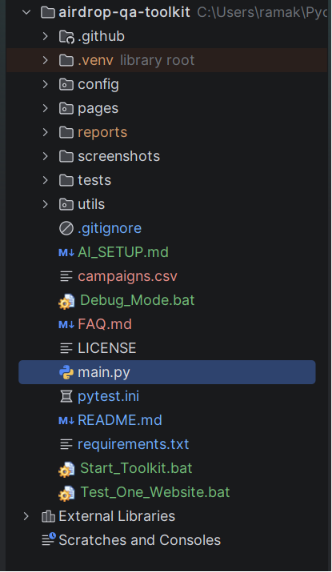
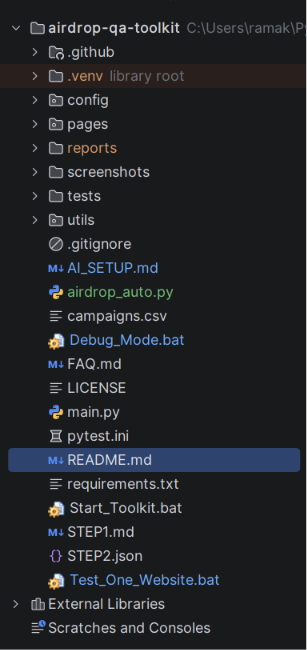
Improve setup guide and debug mode for beginners

diff --git a/airdrop_auto.py b/airdrop_auto.py
@@ -1,0 +1,21 @@
+"""
+Airdrop QA Toolkit
+Entry point for running the toolkit.
+"""
+
+print("Debug Mode (Optional)\n")
+
+print("If you're testing wallet interactions:")
+print("- Close all Google Chrome windows.")
+print("- Start Chrome in Debug Mode.")
+print("- Open Command Prompt and run:\n")
+print("Copy and paste this command:\n")
+print('"C:\\Program Files\\Google\\Chrome\\Application\\chrome.exe" --remote-debugging-port=9222 --no-first-run --user-data-dir="%LOCALAPPDATA%\\Google\\Chrome-Debug"\n')
+
+print("- Then run Debug_Mode.bat.\n")
+
+print("Otherwise, simply press Enter to continue.\n")
+
+input("Press Enter to continue...")
+
+import main

diff --git a/AI_SETUP.md b/AI_SETUP.md
@@ -1,70 +1,166 @@
 # AI Setup Guide — Airdrop QA Toolkit
 
-This file is designed to be copied and pasted into ChatGPT (or any AI assistant).
+This guide is for beginners.
 
-It gives the AI everything it needs to walk you through setup, even if you have never used Python before.
-
----
-
-## How to use this file
-
-1. Open [ChatGPT](https://chatgpt.com/) in your browser
-2. Copy **everything below the line** and paste it into the chat
-3. Press Enter and follow the AI's instructions one step at a time
+If you get stuck while setting up the toolkit, copy everything below into ChatGPT and let it guide you step by step.
 
 ---
+
+## How to use
+
+1. Open https://chatgpt.com/ or any ai.
+2. Copy everything below this line.
+3. Paste it into ChatGPT.
+4. Follow the instructions one step at a time.
 
 ---
 
 Hi ChatGPT,
 
-I downloaded a free toolkit called **Airdrop QA Toolkit** from GitHub.
+I downloaded **Airdrop QA Toolkit** from GitHub.
 
-I want to run it on my Windows computer, but I am not a developer and I have never used Python or Command Prompt before.
+I have never used Python or Command Prompt before.
 
-Please be my personal setup assistant and help me get it running.
+Please help me set up and run this toolkit on my Windows computer.
 
-**Important rules for you:**
+### Important
 
-- Assume I know absolutely nothing about programming
-- Explain every single step in plain, simple English
-- Do not use technical words without explaining them first
-- Guide me one step at a time — wait for me to confirm before moving on
-- If I get an error message, stop and help me fix it before we continue
-- Do not assume any software is already installed
+* Explain everything in simple English.
+* Guide me one step at a time.
+* Wait for me to confirm each step before continuing.
+* If I get an error, help me fix it before moving on.
+* Assume nothing is already installed.
 
-**Here is what I need your help with:**
+### Help me with:
 
-1. Check if Python is installed on my computer, and help me install it if it is not
-2. Make sure I ticked "Add Python to PATH" during installation (this is very important)
-3. Help me open the project folder I downloaded
-4. Help me double-click `run.bat` to start the toolkit
-5. If `run.bat` fails or an error appears, explain what the error means in plain English and help me fix it
-6. Once the toolkit is running, show me how to add my own Web3 campaign URLs to the `my_campaigns.csv` file
-7. Explain what the results mean once the checks are done
+1. Check if Python is installed.
+2. Help me install Python if needed.
+3. Make sure **"Add Python to PATH"** is enabled.
+4. Help me open the project folder.
+5. Help me run **Start_Toolkit.bat**.
+6. If I get an error, explain it in simple English and help me fix it.
+7. Help me edit **campaigns.csv** to add my own websites.
+8. Explain the HTML report after the scan finishes.
 
-**Common errors you might need to help with:**
+### Common Errors
 
-- `python is not recognized` → Python is not installed or PATH was not set
-- `pip is not recognized` → Same as above — PATH issue
-- `No module named ...` → A required package is missing, install it with pip
-- `FileNotFoundError` → The file path is wrong or the file does not exist
-- `ChromeDriver` errors → Help me install or update Chrome and ChromeDriver
+**python is not recognized**
 
-For every error: first explain what went wrong in one simple sentence, then give me the exact fix.
+Python is not installed or PATH is not configured correctly.
 
-My goal is simply to run the toolkit successfully so I can check my Web3 campaign URLs.
+**pip is not recognized**
+
+Python was installed but PATH was not configured correctly.
+
+**No module named ...**
+
+Install the missing package.
+
+**FileNotFoundError**
+
+The file or folder cannot be found.
+
+**ChromeDriver errors**
+
+Help me update Google Chrome and ChromeDriver.
+
+For every error:
+
+* Explain what happened in one simple sentence.
+* Give me the exact steps to fix it.
+
+My goal is to successfully run the toolkit and test my Web3 campaign websites.
 
 Thank you!
 
 ---
 
-## Still stuck?
+# Manual Setup (Optional)
 
-If the AI cannot solve your issue, open a GitHub Issue and include:
+## 1. Install Python
 
-- Your Windows version (e.g. Windows 10 or Windows 11)
-- What happened when you double-clicked `run.bat`
-- A screenshot of any error message
+Download Python:
+
+https://www.python.org/downloads/
+
+During installation, enable:
+
+✔ Add Python to PATH
+
+---
+
+## 2. Install Required Packages
+
+Open **Command Prompt** inside the project folder and run:
+
+```
+pip install -r requirements.txt
+```
+
+---
+
+## 3. Start the Toolkit
+
+For most users:
+
+* Double-click **Start_Toolkit.bat**
+
+Advanced users can also run:
+
+```
+python airdrop_auto.py
+```
+
+---
+
+## 4. Chrome Debug Mode (Optional)
+
+Use this mode only if you want to test wallet interactions.
+
+### Step 1
+
+Close **all Google Chrome windows**.
+
+This is important before starting Chrome in Debug Mode.
+
+### Step 2
+
+Open **Command Prompt**.
+
+### Step 3
+
+Copy and paste the command below, then press **Enter**.
+
+```
+"C:\Program Files\Google\Chrome\Application\chrome.exe" --remote-debugging-port=9222 --no-first-run --user-data-dir="%LOCALAPPDATA%\Google\Chrome-Debug"
+```
+
+A new Chrome window will open in Debug Mode.
+
+### Step 4
+
+Double-click:
+
+```
+Debug_Mode.bat
+```
+
+The toolkit will connect to the Debug Chrome window.
+
+Note:
+
+Only use Debug Mode for testing.
+Do not use it for personal browsing or logging into sensitive accounts.
+
+---
+
+## Still Need Help?
+
+If the toolkit still doesn't work, create a GitHub Issue and include:
+
+* Windows version
+* Python version
+* What happened
+* A screenshot of the error
 
 This helps improve the toolkit for everyone.

diff --git a/README.md b/README.md
@@ -9,7 +9,7 @@ No coding required. Install Python once, then run the toolkit.
 ## Features
 
 * Check website availability
-* Verify HTTPS/SSL certificate
+* Verify HTTPS / SSL certificate
 * Check HTTP status code
 * Detect redirects
 * Measure page load speed
@@ -22,7 +22,7 @@ No coding required. Install Python once, then run the toolkit.
 
 ## Requirements
 
-* Windows 10/11
+* Windows 10 or Windows 11
 * Python 3.10 or later
 * Google Chrome
 * Internet connection
@@ -31,18 +31,29 @@ No coding required. Install Python once, then run the toolkit.
 
 ## Setup
 
-1. Download or clone this project.
-2. Install Python from:
-   https://www.python.org/downloads/
-3. During installation, enable **"Add Python to PATH"**.
+### 1. Download the project
+
+Download or clone this repository.
+
+### 2. Install Python
+
+Download Python:
+
+https://www.python.org/downloads/
+
+During installation, make sure you enable:
+
+**✔ Add Python to PATH**
 
 ---
 
 ## Run
 
-### Test one website
+### Test One Website
 
-Double-click **run_single_site.bat**
+Double-click:
+
+**Test_One_Website.bat**
 
 Enter a website URL when prompted.
 
@@ -54,9 +65,9 @@ https://base.org
 
 ---
 
-### Test multiple websites
+### Test Multiple Websites
 
-Edit **campaigns.csv** with your websites.
+Open **campaigns.csv** and add your websites.
 
 Example:
 
@@ -66,7 +77,55 @@ Base,https://base.org
 Bitget,https://web3.bitget.com
 ```
 
-Then double-click **run.bat**.
+Save the file.
+
+Then double-click:
+
+**Start_Toolkit.bat**
+
+---
+
+## Run from Command Prompt (Optional)
+
+For advanced users:
+
+1. Open Command Prompt.
+2. Open the project folder.
+3. Run:
+
+```
+python airdrop_auto.py
+```
+
+---
+
+## Manual Installation (Optional)
+
+If the required packages are not installed, open Command Prompt in the project folder and run:
+
+```
+pip install -r requirements.txt
+```
+
+---
+
+## Debug Mode (Optional)
+
+Debug Mode is only required for wallet interaction testing.
+
+1. Close all Google Chrome windows.
+2. Open Command Prompt.
+3. Copy and paste this command:
+
+```
+"C:\Program Files\Google\Chrome\Application\chrome.exe" --remote-debugging-port=9222 --no-first-run --user-data-dir="%LOCALAPPDATA%\Google\Chrome-Debug"
+```
+
+4. Then run:
+
+**Debug_Mode.bat**
+
+**Note:** Keep the Debug Chrome window open until testing finishes.
 
 ---
 
@@ -78,13 +137,16 @@ After the scan finishes, open:
 reports/report.html
 ```
 
-If a test fails, screenshots are saved in the **screenshots** folder.
+If a test fails, screenshots are saved inside the **screenshots** folder.
 
 ---
 
 ## Need Help?
 
-See **FAQ.md** or **AI_SETUP.md**.
+See:
+
+* **FAQ.md**
+* **AI_SETUP.md**
 
 ---
 
@@ -104,13 +166,16 @@ See **FAQ.md** or **AI_SETUP.md**.
 
 ### Project Structure
 
-![Project Structure](screenshots/project_structure.png)
+![project_structure.png](screenshots/project_structure.png)
+---
 
 ## Coverage Declaration
 
 Tested on: Windows
 
 Coverage: ~100%
+
+---
 
 ## License
 